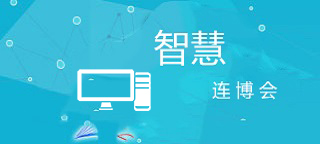
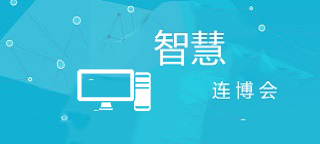
修改主页布局

Changed region(s): [[0.2188, 0.8333, 0.3125, 1.0], [0.3438, 0.8611, 0.4688, 1.0]]

diff --git a/WebContent/css/index.css b/WebContent/css/index.css
@@ -16,11 +16,11 @@ input,textarea,select,button {outline:none;}
 
 .top{ width:1060px; height:87px;}
 
-.logo{ display:block; width:333px; height:43px; margin-top:25px;}
+.logo{ display:block; width:333px; height:80px; margin-top:0px;}
 
-.tel_ban{ width:286px; height:43px; margin-top:28px}
-.tel_ban{ width:286px; height:50px; margin-top:24px}
-.ban{ width:104px; height:23px; float:right; margin:0 0 0 0}
+.tel_ban{ width:286px; height:35px; margin-top:50px}
+
+.ban{ width:104px; height:23px; float:right; margin:0 0 0 0 0}
 .ch{ display:block; width:44px; height:23px; float:left}
 
 .en{ display:block; width:60px; height:23px; float:left}
@@ -93,17 +93,17 @@ input,textarea,select,button {outline:none;}
 .tzggnb ul li a:hover{color:#09C}
 
 .hylt{ width:650px; height:158px; margin-top:31px}
-.hyltbt{width:280px; height:36px; line-height:38px;font-size:20px; font-family:Microsoft YaHei; color:#2e93d0;  border-bottom:1px solid #DDDDDD; background:url(../images/tzggbt_bg.jpg) left no-repeat; padding-left:28px}
+.hyltbt{width:280px; height:36px; line-height:38px;font-size:20px; font-family:Microsoft YaHei; color:#2e93d0;  border-bottom:1px solid #DDDDDD; background:url(../images/hylt_bg.jpg) left no-repeat; padding-left:28px}
 .hyltnb{ width:308px; height:0px}
 
 .hyltnb ul{}
-.hyltnb ul li{line-height:40px; background:url(../images/narrow.png) 3px 15px no-repeat;}
+.hyltnb ul li{line-height:32px; background:url(../images/narrow.png) 3px 15px no-repeat;}
 .hyltnb ul li a{padding-left:15px; font-size:13px; color:#686868}
 .hyltnb ul li a:hover{color:#09C}
 
 
-.button2{ width:200px; height:178px; margin:70px 0 0 80px}
-.button3{ width:200px; height:100px; margin:31px 0 0 80px}
+.button2{ width:200px; height:178px; margin:70px 0 0 100px}
+.button3{ width:200px; height:100px; margin:31px 0 0 100px}
 
 
 .app_login{ width:1060px; height:169px; margin:0 auto}
@@ -122,7 +122,7 @@ input,textarea,select,button {outline:none;}
 .appwz_2{width:188px; height:53px; margin:30px 0 0 0}
 
 .review{width:1060px; height:300px; margin-top:5px}
-.reviewbt{width:280px; height:36px; line-height:38px;font-size:20px; font-family:Microsoft YaHei; color:#2e93d0;  border-bottom:1px solid #DDDDDD; background:url(../images/tzggbt_bg.jpg) left no-repeat; padding-left:28px;margin-top:50px}
+.reviewbt{width:280px; height:36px; line-height:38px;font-size:20px; font-family:Microsoft YaHei; color:#2e93d0;  border-bottom:1px solid #DDDDDD; background:url(../images/review_bg.jpg) left no-repeat; padding-left:28px;margin-top:20px}
 
 .review_left{ width:340px; height:107px; }
 .reviewimg{ width:320px; height:107px;}
@@ -155,6 +155,6 @@ input,textarea,select,button {outline:none;}
 .footer2{ width:1130px; height:28px; margin:0 auto; line-height:28px; font-size:12px; color:#9B9B9B}
 
 .hzfb { width:1060px; margin:0 auto; overflow:hidden; zoom:1; }
-.zlhb_top{width:280px; height:36px; line-height:38px;font-size:20px; font-family:Microsoft YaHei; color:#2e93d0;  border-bottom:1px solid #DDDDDD; background:url(../images/tzggbt_bg.jpg) left no-repeat; padding-left:28px;margin-top:50px}
+.zlhb_top{width:280px; height:36px; line-height:38px;font-size:20px; font-family:Microsoft YaHei; color:#2e93d0;  border-bottom:1px solid #DDDDDD; background:url(../images/hzmt_bg.jpg) left no-repeat; padding-left:28px;margin-top:50px}
 .zlhb_bot { width:205px; padding-left:35px; height:38px; padding-bottom:16px; border-right:1px solid #909090; }
 .zlhb_bot td { padding-right:15px; line-height:38px; }

diff --git a/WebContent/index.html b/WebContent/index.html
@@ -1,4 +1,4 @@
-<!DOCTYPE html PUBLIC "-//W3C//DTD XHTML 1.0 Transitional//EN" "http://www.w3.org/TR/xhtml1/DTD/xhtml1-transitional.dtd">
+<!DOCTYPE html PUBLIC "-//W3C//DTD XHTML 1.0 Transitional//EN" "http://www.w3.org/TR/xhtml1/DTD/xhtml1-transitional.dtd">
 <html xmlns="http://www.w3.org/1999/xhtml">
 <head>
 	<meta http-equiv="Content-Type" content="text/html; charset=utf-8" />
@@ -332,7 +332,7 @@
 			</div>
 			<span class="button3 left">
 			<a class="dtimg4" href="in_exhibit.html?detail=zs/xzzx.html"><img src="images/downloadcenter.jpg" /></a>
-			<a class="dtimg5" href="in_exhibit.html?detail=gy/zhgk.html"><img src="images/intro.jpg" /></a>
+			<a class="dtimg5" href="in_about.html?detail=gy/zhgk.html"><img src="images/intro.jpg" /></a>
 			</span>
 		</div>
 	</div>
@@ -362,7 +362,7 @@
 			<input style=" display:block; width:261px; height:23px; border:1px solid #E1E2E4; margin:4px auto 0 auto; padding-left:5px;padding-top:5px; font-size:13px; color:#AFB0B2" onBlur="if (value ==''){value=''}" onClick="if(this.value=='密码')this.value='';" type="password" value="密码"  name=""  id= "login002" />
 			<div class="button">
 				<input style="background:url(images/dlb.jpg); cursor:pointer; width:67px; height:25px; display:block; float:left; border:0; margin-left:4px" name="" type="button" onclick="checklogin();"/>
-				<input  style="background:url(images/zcb.jpg); cursor:pointer; width:67px; height:25px; display:block; float:left; border:0; margin-left:6px" name="" type="button"  onclick="location='in_exhibit_register.html'"/>
+				<input style="background:url(images/zcb.jpg); cursor:pointer; width:67px; height:25px; display:block; float:left; border:0; margin-left:6px" name="" type="button"  onclick="location='in_exhibit_register.html'"/>
 			</div>
 		</div>
 	</div>
@@ -374,9 +374,9 @@
 					<tr>
 						<td><img src="images/meiti1.jpg" /></td>
 						<td><img src="images/meiti2.jpg" /></td>
+						<td><img src="images/meiti3.jpg" /></td>
 						<td><img src="images/meiti4.jpg" /></td>
-						<td><img src="images/meiti1.jpg" /></td>
-						<td><img src="images/meiti2.jpg" /></td>
+						<td><img src="images/meiti5.jpg" /></td>
 						
 					</tr>
 				</table>

diff --git a/WebContent/css/ny.css b/WebContent/css/ny.css
@@ -16,9 +16,10 @@ input,textarea,select,button {outline:none;}
 
 .top{ width:1060px; height:87px;}
 
-.logo{ display:block; width:333px; height:43px; margin-top:25px;}
+.logo{ display:block; width:333px; height:80px; margin-top:0px;}
 
-.tel_ban{ width:286px; height:50px; margin-top:24px}
+.tel_ban{ width:286px; height:35px; margin-top:50px}
+
 .ban{ width:104px; height:23px; float:right; margin:0 0 0 0}
 .ch{ display:block; width:44px; height:23px; float:left}
 
